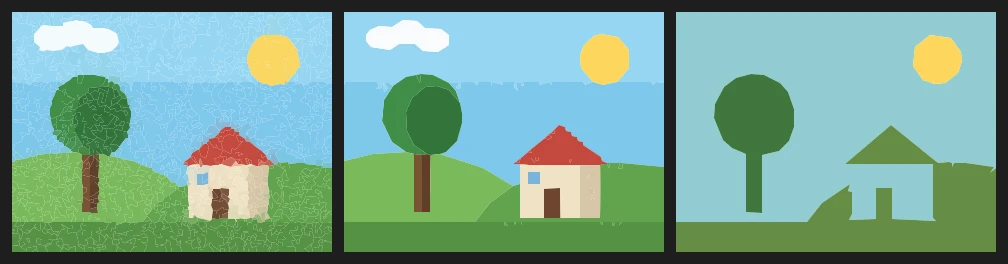
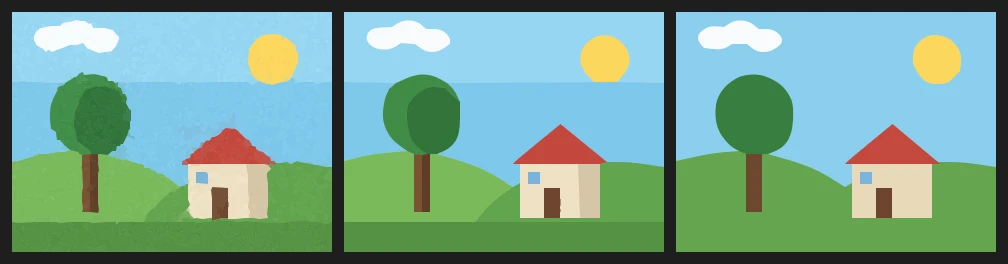
Docs: Trace Bitmap figures and numbers for the new tracer

diff --git a/docs/documents.html b/docs/documents.html
@@ -237,13 +237,13 @@
 <dl class="defs">
   <dt>Color threshold</dt><dd>How different two colors may be and still make one area, from 1 to 500: the red, green and blue differences added together. Higher makes fewer, larger areas.</dd>
   <dt>Minimum area</dt><dd>Areas smaller than this many pixels join the neighbor they share the most edge with. Raise it to clear away specks.</dd>
-  <dt>Curve fit</dt><dd>How closely the outlines follow the pixels, from Pixels (every step kept) to Very Smooth (fewer points).</dd>
+  <dt>Curve fit</dt><dd>How closely the outlines follow the picture. Pixels and Very Tight keep every step of the pixels. From Tight on, rounds become smooth curves and straight sides stay straight, with fewer points the smoother you go.</dd>
 </dl>
 
 <p><strong>Preview</strong> traces the bitmap on the stage with the settings as they are, so you can judge the result in place, zoomed in if you like. The dialog then says how many areas and points the trace made, and suggests what to change when there are far too many or too few. Turn on <strong>Auto Preview</strong> to trace again whenever a setting changes: it waits until you stop dragging a value, so scrubbing stays smooth.</p>
 
 <figure>
-  <img src="assets/shots/trace-bitmap.webp" alt="A picture of a tree and a house traced on the stage, beside the Trace Bitmap dialog: Color threshold 30, Minimum area 40 px, Curve fit Normal, Auto Preview on, 20 areas, 248 points" width="705" height="312">
+  <img src="assets/shots/trace-bitmap.webp" alt="A picture of a tree and a house traced on the stage, beside the Trace Bitmap dialog: Color threshold 30, Minimum area 8 px, Curve fit Normal, Auto Preview on, 19 areas, 174 points" width="705" height="312">
 </figure>
 
 <p><strong>Trace</strong> keeps the result as one step you can undo, in the bitmap's place and position, and the bitmap stays in the library. <strong>Cancel</strong> puts the bitmap back and leaves nothing in the undo history. With several bitmaps selected, all of them are previewed and traced with the same settings.</p>
@@ -255,19 +255,19 @@
 <p>To try it, download the <a href="assets/img/trace-sample.png" download>sample picture</a> (320 by 240 pixels) and import it with <span class="menu-path">File &rsaquo; Import &rsaquo; Import to Stage</span>. It is flat colors with soft edges and a little noise, like a scanned drawing or a compressed export. Here it is traced at three color thresholds:</p>
 
 <figure>
-  <img src="assets/shots/trace-bitmap-thresholds.webp" alt="The sample traced three times: at threshold 10 it is crazed with tiny shapes, at 30 each flat color is one clean shape, at 250 the house and the sky have run together into one muddy color" width="1008" height="264">
-  <figcaption>Color threshold 10, 30 and 250, Minimum area 8 px</figcaption>
+  <img src="assets/shots/trace-bitmap-thresholds.webp" alt="The sample traced three times: at threshold 10 it is crazed with tiny shapes, at 30 each flat color is one clean shape, at 100 the two blues of the sky, the two greens of the tree and the two sides of the house have each run together" width="1008" height="264">
+  <figcaption>Color threshold 10, 30 and 100, Minimum area 8 px, Curve fit Normal</figcaption>
 </figure>
 
 <ul>
-  <li><strong>Too low (10):</strong> the noise splits every flat color into specks, 1,610 areas in all. It is slow to draw and impossible to edit.</li>
-  <li><strong>Right (30):</strong> each flat color is one area, 43 in all, and the tree's shadow side stays apart from its lit side.</li>
-  <li><strong>Too high (250):</strong> only 4 areas are left. The house has run into the sky, and the hills into the ground, each in a muddy average of their colors.</li>
+  <li><strong>Too low (10):</strong> the noise splits every flat color into specks, 1,131 areas in all. It is slow to draw and impossible to edit.</li>
+  <li><strong>Right (30):</strong> each flat color is one area, 19 in all, and the tree's shadow side stays apart from its lit side.</li>
+  <li><strong>Too high (100):</strong> 10 areas are left. The two blues of the sky have run together, and so have the two greens of the tree, the hills, and the lit and shaded sides of the house.</li>
 </ul>
 
-<p>For this picture, the ideal trace is Color threshold 30, Minimum area 40 px and Curve fit Normal, as shown above. Raising Minimum area folds the specks along the soft edges into their neighbors, which leaves 20 areas and 248 points.</p>
+<p>For this picture, the ideal trace is Color threshold 30, Minimum area 8 px and Curve fit Normal, as shown above: 19 areas and 174 points, with the sun and the tree as smooth curves and the house as straight lines.</p>
 
-<p>For a picture of your own, turn on Auto Preview and zoom in on a detailed part of the stage. Raise Color threshold until the shades of each flat color become one area, and stop before colors you want to keep apart run together; the area count falls steeply as specks merge, then levels off. Then raise Minimum area until the specks are gone. Last, choose a Curve fit with as few points as still follow the shapes.</p>
+<p>For a picture of your own, turn on Auto Preview and zoom in on a detailed part of the stage. Raise Color threshold until the shades of each flat color become one area, and stop before colors you want to keep apart run together; the area count falls steeply as specks merge, then levels off. Then raise Minimum area if specks are left. Last, choose a Curve fit with as few points as still follow the shapes.</p>
 
 <p>Trace Bitmap suits flat-colored artwork: logos, cartoons and scanned inked drawings. A photograph or a gradient becomes many areas at any setting.</p>
 
